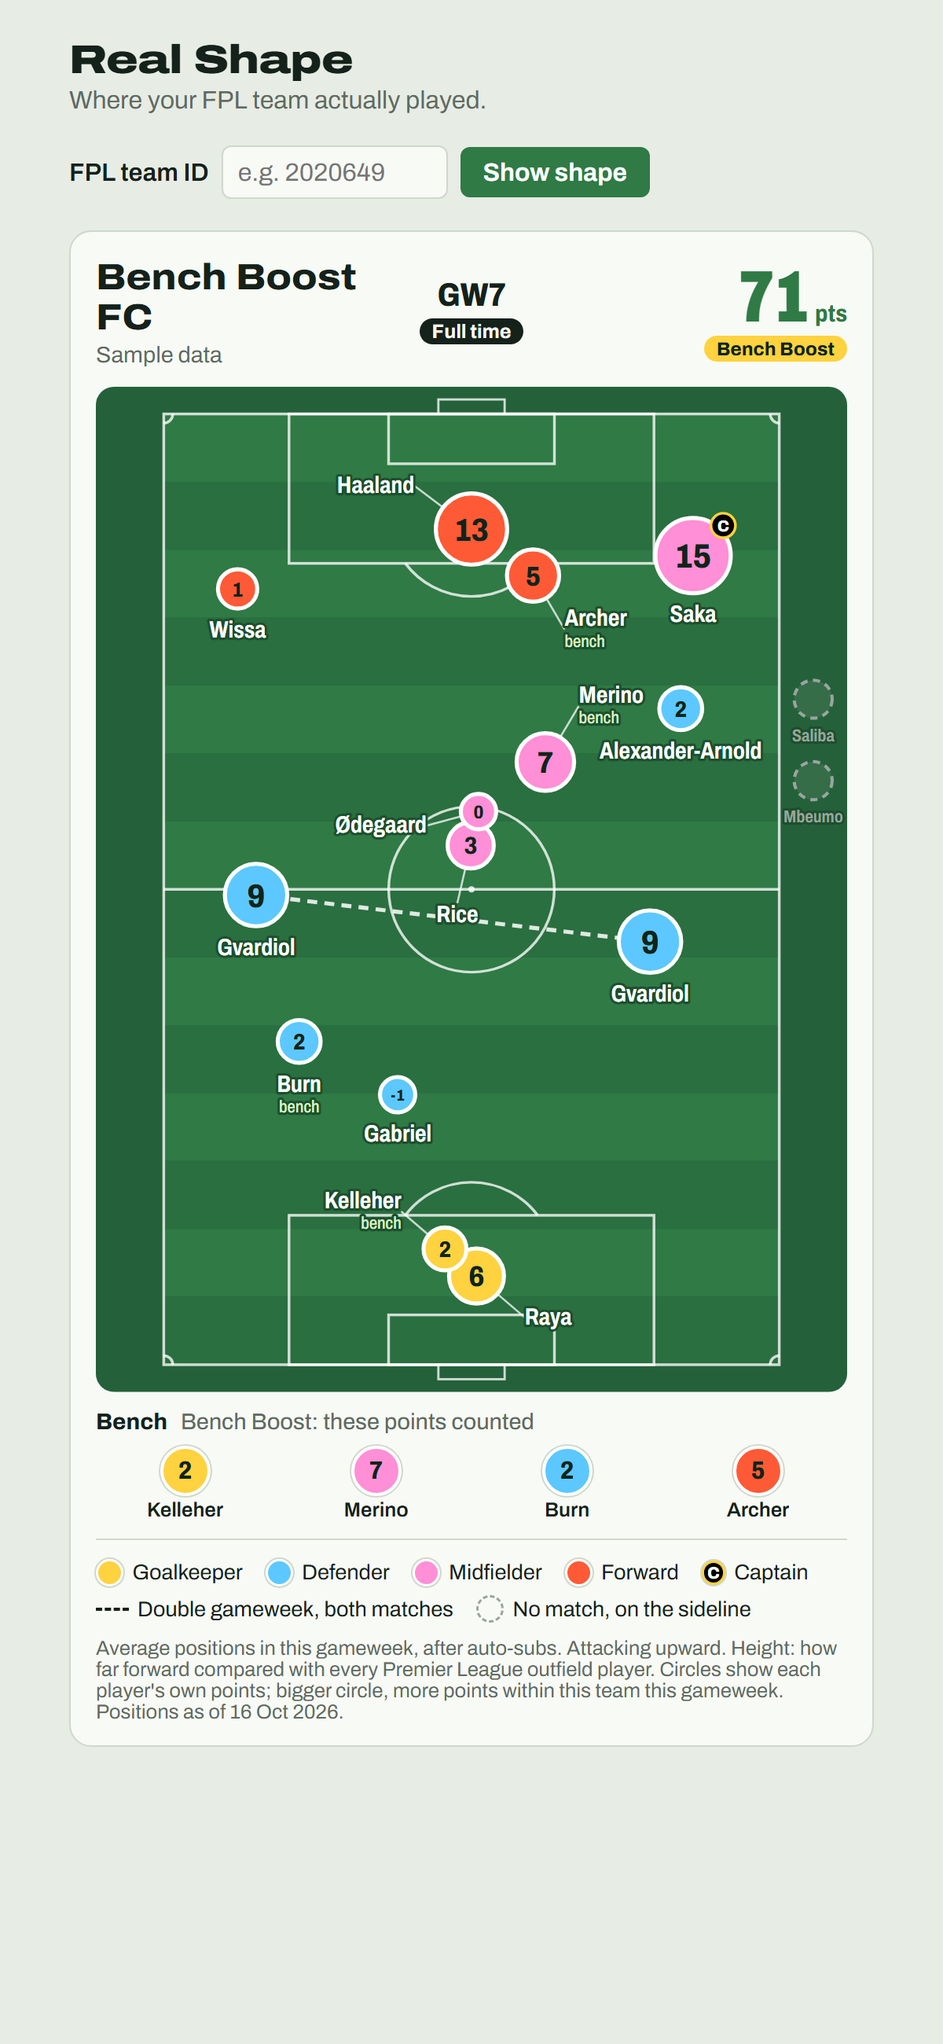
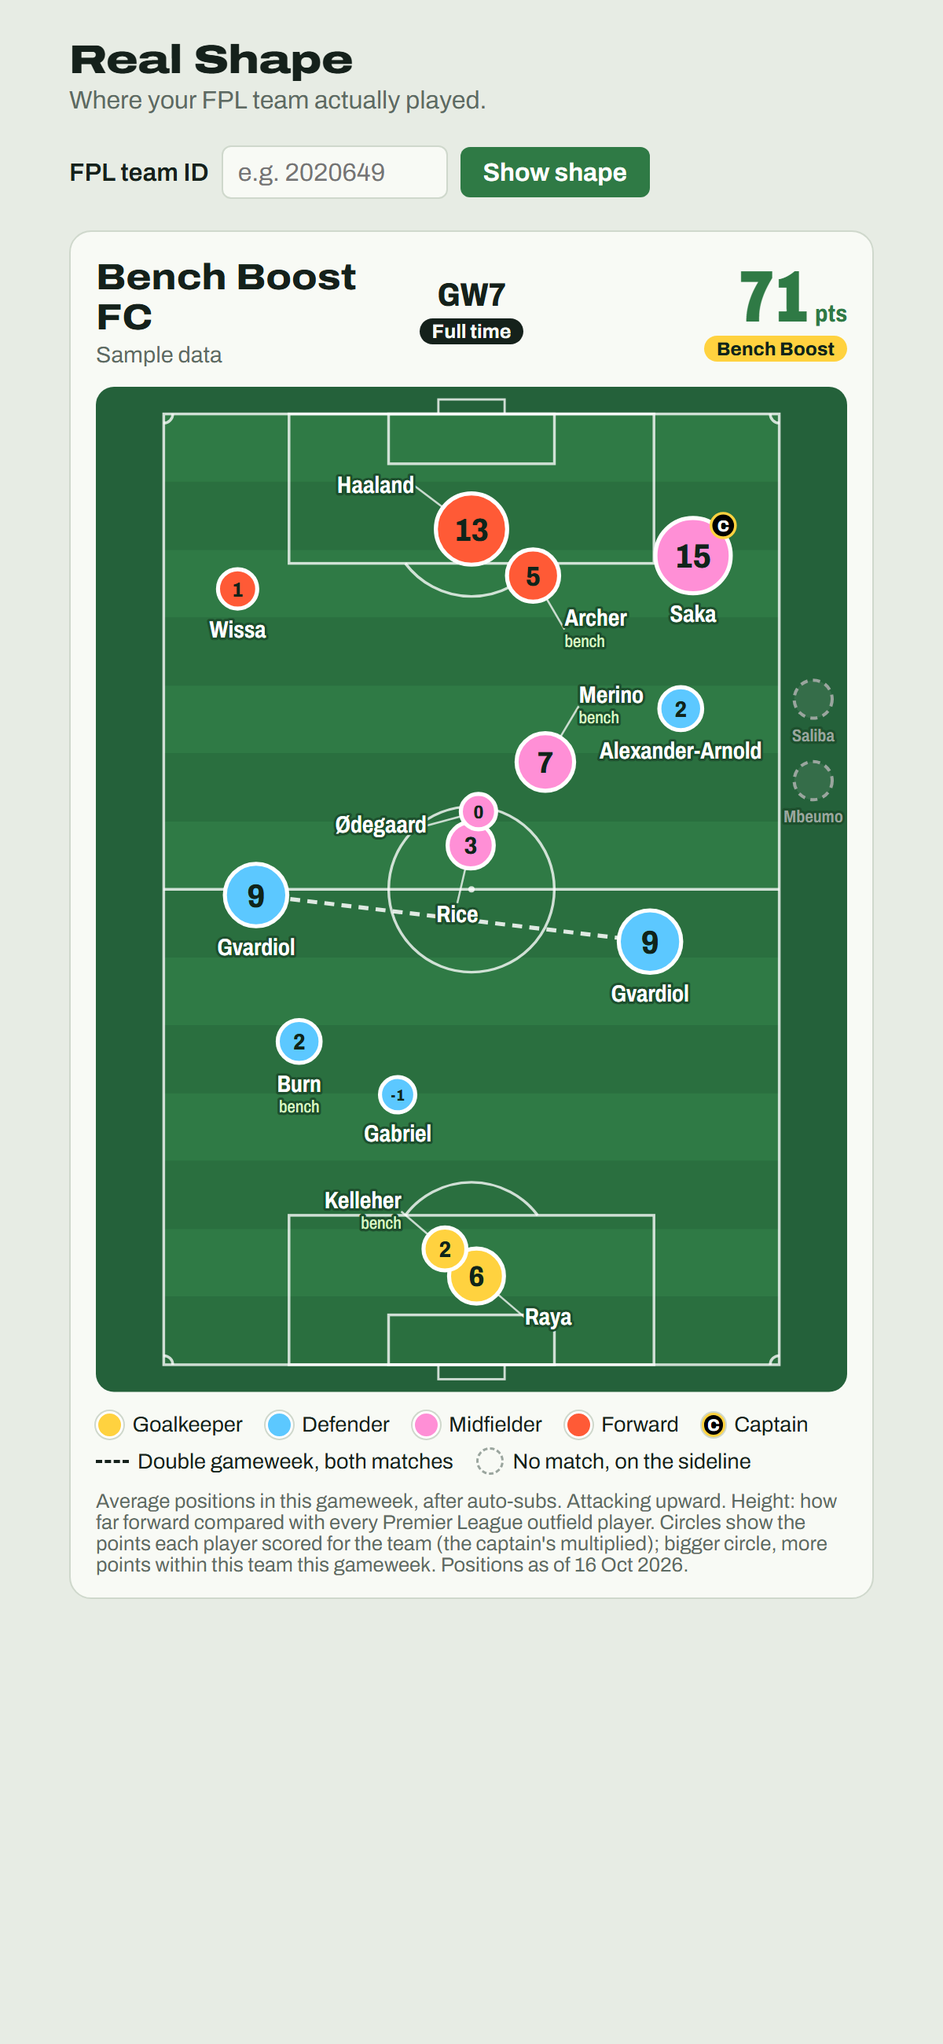
Multiply captain points on the dot, no bench row under Bench Boost, plain Bench heading (task 13 feedback)

Changed region(s): [[0.0925, 0.6854, 0.8633, 0.8412]]

diff --git a/frontend/src/PitchCard.tsx b/frontend/src/PitchCard.tsx
@@ -54,12 +54,11 @@ function GwArrow({ direction, nav }: { direction: 'prev' | 'next'; nav: GwNav })
   )
 }
 
-function Bench({ players, boosted }: { players: BenchPlayer[]; boosted: boolean }) {
+// Empty under Bench Boost (everyone is on the pitch), so not shown then.
+function Bench({ players }: { players: BenchPlayer[] }) {
   return (
     <section className="bench" aria-label="Bench">
-      <h3>
-        Bench <span>{boosted ? 'Bench Boost: these points counted' : 'points did not count'}</span>
-      </h3>
+      <h3>Bench</h3>
       <ol>
         {players.map((p) => (
           <li key={p.fpl_id} title={`${p.name} (${p.role}, ${p.club})`}>
@@ -108,7 +107,7 @@ export default function PitchCard({ plot, nav }: { plot: Plot; nav?: GwNav }) {
         title={`${plot.team_name}, gameweek ${plot.gw}: real average positions`}
       />
 
-      {plot.bench.length > 0 && <Bench players={plot.bench} boosted={plot.chip === 'bboost'} />}
+      {plot.bench.length > 0 && <Bench players={plot.bench} />}
 
       <footer className="card-foot">
         <ul className="legend">
@@ -146,8 +145,8 @@ export default function PitchCard({ plot, nav }: { plot: Plot; nav?: GwNav }) {
         </ul>
         <p className="card-note">
           {state.note} Attacking upward. Height: how far forward compared with every Premier League outfield
-          player. Circles show each player's own points; bigger circle, more points within this team this
-          gameweek.
+          player. Circles show the points each player scored for the team (the captain's multiplied); bigger
+          circle, more points within this team this gameweek.
           {plot.data_as_of && ` Positions as of ${formatDate(plot.data_as_of)}.`}
         </p>
       </footer>

diff --git a/frontend/src/fixtures/edgeCases.ts b/frontend/src/fixtures/edgeCases.ts
@@ -78,10 +78,6 @@ export const benchBoost: Plot = {
     dot({ fpl_id: 14, web_name: 'Burn', role: 'DEF', slot: 14, x: 22, y: 35, depth_pct: 20, points: 2, from_bench: true }),
     dot({ fpl_id: 15, web_name: 'Archer', role: 'FWD', slot: 15, x: 60, y: 82, depth_pct: 90, points: 5, from_bench: true }),
   ],
-  bench: [
-    bench({ fpl_id: 12, web_name: 'Kelleher', role: 'GK', points: 2 }),
-    bench({ fpl_id: 13, web_name: 'Merino', role: 'MID', points: 7 }),
-    bench({ fpl_id: 14, web_name: 'Burn', role: 'DEF', points: 2 }),
-    bench({ fpl_id: 15, web_name: 'Archer', role: 'FWD', points: 5 }),
-  ],
+  // Everyone is on the pitch under Bench Boost.
+  bench: [],
 }

diff --git a/frontend/src/api.ts b/frontend/src/api.ts
@@ -89,8 +89,8 @@ export type PlotDot = {
   // Percentile (0-100) of y among every outfield player-match, drawn as the
   // dot's height. null for a goalkeeper or ghost.
   depth_pct: number | null
-  // The player's own FPL points for the gameweek (live while in progress),
-  // before the captain multiplier.
+  // The points the player scored for the team (live while in progress): his
+  // own, doubled for the captain (tripled with Triple Captain).
   points: number
   // A bench player drawn because of Bench Boost.
   from_bench: boolean

diff --git a/frontend/src/index.css b/frontend/src/index.css
@@ -311,12 +311,6 @@ input:focus-visible {
   font-weight: 750;
 }
 
-.bench h3 span {
-  margin-left: 0.35rem;
-  font-weight: 450;
-  color: var(--muted);
-}
-
 .bench ol {
   display: grid;
   grid-template-columns: repeat(4, minmax(0, 1fr));

diff --git a/backend/app/logic/plot.py b/backend/app/logic/plot.py
@@ -13,7 +13,13 @@ from sqlalchemy.orm import Session
 
 from app.fpl.team import TeamGameweek
 from app.logic.depth import POOL_MIN_MINUTES, rank_depth
-from app.logic.gameweek import GameweekState, bench_picks, build_dots, team_state
+from app.logic.gameweek import (
+    GameweekState,
+    bench_picks,
+    build_dots,
+    captain_multiplier,
+    team_state,
+)
 from app.logic.positions import GhostReason
 from app.logic.repository import (
     load_data_as_of,
@@ -54,14 +60,17 @@ class PlotDot(_Model):
     # (`app/logic/depth.py`); the pitch draws it as the dot's height. None for
     # a goalkeeper or a ghost.
     depth_pct: float | None
-    # The player's own FPL points for the gameweek (live while in progress),
-    # before the captain multiplier.
+    # The points the player scored for the team this gameweek (live while in
+    # progress): his own, doubled for the captain (tripled with Triple
+    # Captain). The dots of the XI add up to the gameweek score before hits.
     points: int
     # A bench player drawn because of Bench Boost (slot 12-15).
     from_bench: bool
 
 
 class BenchPlayer(_Model):
+    """Points are his own (they did not count for the team)."""
+
     fpl_id: int
     name: str
     web_name: str
@@ -89,7 +98,8 @@ class Plot(_Model):
     # End of the latest finished sync; None if the database was never synced.
     data_as_of: datetime | None
     dots: list[PlotDot]
-    # In bench order (see `app/logic/gameweek.py`).
+    # In bench order (see `app/logic/gameweek.py`); empty under Bench Boost,
+    # when the bench is drawn on the pitch.
     bench: list[BenchPlayer]
 
 
@@ -118,6 +128,7 @@ def build_plot(team: TeamGameweek, session: Session, latest_gw: int | None) -> P
     picks = {p.player.id: p for p in team.picks}
     players = {fpl_id: p.player for fpl_id, p in picks.items()}
     pool = load_depth_pool(session, POOL_MIN_MINUTES)
+    multiplier = captain_multiplier(team)
 
     dots = []
     for dot in build_dots(team, state, sofascore_ids, rows):
@@ -140,7 +151,7 @@ def build_plot(team: TeamGameweek, session: Session, latest_gw: int | None) -> P
                 link_group=dot.link_group,
                 replaces=dot.replaces,
                 depth_pct=rank_depth(pool, dot.role, y),
-                points=picks[dot.fpl_id].points,
+                points=picks[dot.fpl_id].points * (multiplier if dot.is_captain else 1),
                 from_bench=dot.slot > 11,
             )
         )

diff --git a/backend/app/logic/gameweek.py b/backend/app/logic/gameweek.py
@@ -31,7 +31,7 @@ Bench
 -----
 Bench players are not dots, except under Bench Boost: all 15 score, so the
 four bench players are drawn too, with slots 12-15 (FPL makes no auto-subs
-under Bench Boost). The plot lists the bench separately either way.
+under Bench Boost), and there is no separate bench.
 """
 
 from collections.abc import Mapping, Sequence
@@ -119,6 +119,11 @@ def team_state(team: TeamGameweek, positions_synced: bool) -> GameweekState:
 
 
 BENCH_BOOST = "bboost"
+TRIPLE_CAPTAIN = "3xc"
+
+
+def captain_multiplier(team: TeamGameweek) -> int:
+    return 3 if team.chip == TRIPLE_CAPTAIN else 2
 
 
 def plotted_picks(team: TeamGameweek, state: GameweekState) -> list[tuple[int, TeamPick]]:
@@ -143,8 +148,11 @@ def plotted_picks(team: TeamGameweek, state: GameweekState) -> list[tuple[int, T
 
 def bench_picks(team: TeamGameweek, state: GameweekState) -> list[TeamPick]:
     """The four bench players in bench order: after FPL's auto-subs when
-    locked (a starter who did not play is among them), as picked in preview."""
-    if state is GameweekState.LOCKED or team.chip == BENCH_BOOST:
+    locked (a starter who did not play is among them), as picked in preview.
+    None under Bench Boost: they are all on the pitch."""
+    if team.chip == BENCH_BOOST:
+        return []
+    if state is GameweekState.LOCKED:
         return [p for p in team.picks if not p.starter]
     # Preview: a bench player FPL subbed in sat where the starter he replaced
     # now sits.

diff --git a/backend/tests/test_plot.py b/backend/tests/test_plot.py
@@ -148,6 +148,22 @@ def test_locked_gameweek(api):
     assert keeper["depth_pct"] is None
 
 
+@pytest.mark.parametrize(("chip", "multiplier"), [(None, 2), ("3xc", 3)])
+def test_captain_dot_carries_multiplied_points(fake, db, chip, multiplier):
+    picks = load("picks-gw6.json")
+    picks["active_chip"] = chip
+    fake.routes["/api/entry/1234/event/6/picks/"] = picks
+    captain_id = next(p["element"] for p in picks["picks"] if p["is_captain"])
+    live = load("live-gw6.json")
+    live["elements"].append({"id": captain_id, "stats": {**live["elements"][0]["stats"], "total_points": 5}})
+    fake.routes["/api/event/6/live/"] = live
+
+    body = client_for(make_service(fake), db).get("/api/team/1234/plot/6").json()
+    captain = next(d for d in body["dots"] if d["is_captain"])
+    assert captain["points"] == 5 * multiplier
+    assert body["chip"] == chip
+
+
 def test_preview_when_not_synced(api, db):
     db.get(Gameweek, 6).positions_synced = False
     db.commit()

diff --git a/backend/tests/test_logic_gameweek.py b/backend/tests/test_logic_gameweek.py
@@ -281,6 +281,11 @@ def test_bench_boost_plots_all_fifteen():
         assert [(d.fpl_id, d.slot) for d in dots] == [(i, i) for i in range(1, 16)]
 
 
+def test_no_bench_under_bench_boost():
+    for state in GameweekState:
+        assert bench_picks(make_team(chip="bboost"), state) == []
+
+
 def test_bench_order():
     # Locked: after FPL's auto-subs, so starter 5 (did not play) is on the
     # bench where 13 sat; preview: the bench as picked.

diff --git a/README.md b/README.md
@@ -35,7 +35,7 @@ FPL shows a team as a tidy formation, but managers pick attacking "defenders" an
 
 - **Task 12 — Gameweek plot API endpoint** (done 2026-10-17): `GET /api/team/{team_id}/plot/{gw}` and `/plot/latest` return the graphic's JSON: team name, gameweek, `state` (preview / locked), `prev_gw` / `next_gw`, `data_as_of` (latest finished sync) and the dots (name, web name, role, club, slot, x / y rounded to 2 decimals, captain, ghost and reason, `from_gw`, `link_group`, `replaces`). `backend/app/logic/plot.py` joins task 11's dots with player details. `prev_gw` stops at the team's first gameweek, `next_gw` at the newest passed deadline. `latest` falls back one gameweek while FPL is not serving fresh picks yet. The web app never loads the Sofascore adapter (checked by a test and in the server log). Owner's team GW1-6 checked live, all locked, 11 dots, no ghosts. Docs and samples: `docs/api.md`. 215 tests pass.
 
-- **Task 13 — Pitch rendering (static, one locked GW)** (awaiting approval, 2026-10-17): React `Pitch` component draws an SVG pitch to scale (68 x 105 m, mown stripes, full markings) with the team attacking upward, from `GET /api/team/{id}/plot/{gw}`. Dots colored by FPL role with the role letter inside, a legend, short-name labels placed to avoid collisions, a black "C" captain badge, a "from GWx" / "auto-sub" second line, dashed lines joining double-gameweek dots, and greyed ghosts on the sideline. Players in the same spot are nudged apart by at most about 2 m. Crowded dots get callout labels on leader lines so each name clearly belongs to one dot. `PitchCard` adds the team name, GW number, the gameweek score (and any transfer hit, now in the plot API as `points` / `transfers_cost`), a Full time / Preview badge and the data date. Average positions bunch up in midfield, so the dot's height is a league rank: the percentile of its depth among every outfield player-match, computed in the backend (`app/logic/depth.py`, `depth_pct` on each dot). "< GW6 >" arrows centred in the card header between team name and points (and the arrow keys; pulled forward from task 14) step through every gameweek the team has played. Each circle shows the player's own gameweek points and is sized between the team's lowest and highest score; the chip played is shown under the score (gold "TC" tag for Triple Captain); a bench row sits under the pitch, and under Bench Boost the bench is plotted too (`chip`, `bench`, `points` in the plot API; spec updated with these decisions). Self-hosted Archivo font (ready for image export), fits a 360 px phone. The interim list view is removed. Dev-only samples at `?fixture=edges` and `?fixture=bboost`. Screenshots: `docs/screenshots/pitch-v1.png` (+ `-phone`, `-edge-cases`).
+- **Task 13 — Pitch rendering (static, one locked GW)** (awaiting approval, 2026-10-17): React `Pitch` component draws an SVG pitch to scale (68 x 105 m, mown stripes, full markings) with the team attacking upward, from `GET /api/team/{id}/plot/{gw}`. Dots colored by FPL role with the role letter inside, a legend, short-name labels placed to avoid collisions, a black "C" captain badge, a "from GWx" / "auto-sub" second line, dashed lines joining double-gameweek dots, and greyed ghosts on the sideline. Players in the same spot are nudged apart by at most about 2 m. Crowded dots get callout labels on leader lines so each name clearly belongs to one dot. `PitchCard` adds the team name, GW number, the gameweek score (and any transfer hit, now in the plot API as `points` / `transfers_cost`), a Full time / Preview badge and the data date. Average positions bunch up in midfield, so the dot's height is a league rank: the percentile of its depth among every outfield player-match, computed in the backend (`app/logic/depth.py`, `depth_pct` on each dot). "< GW6 >" arrows centred in the card header between team name and points (and the arrow keys; pulled forward from task 14) step through every gameweek the team has played. Each circle shows the points the player scored for the team (captain multiplied, so the circles add up to the score) and is sized between the team's lowest and highest; the chip played is shown under the score (gold "TC" tag for Triple Captain); a bench row sits under the pitch, and under Bench Boost all 15 are on the pitch instead (`chip`, `bench`, `points` in the plot API; spec updated with these decisions). Self-hosted Archivo font (ready for image export), fits a 360 px phone. The interim list view is removed. Dev-only samples at `?fixture=edges` and `?fixture=bboost`. Screenshots: `docs/screenshots/pitch-v1.png` (+ `-phone`, `-edge-cases`).
 
 ## Next task
 Waiting for owner approval on task 13 (`tasks/13-pitch-rendering.md`). Then **Task 14 — Gameweek mode UI + navigation** → `tasks/14-gameweek-mode-ui.md`

diff --git a/tasks/13-pitch-rendering.md b/tasks/13-pitch-rendering.md
@@ -37,6 +37,7 @@ A good-looking pitch graphic for one locked gameweek, drawn from the plot API.
 - **Iteration 9 (owner request, 2026-10-17):** the card header is one row: team name (left) | "< GW6 >" with the Full time / Preview badge under GW6 (centred on the card) | points (right). On phones (< 30rem): team name and points on the first line, "< GW6 >" centred below. The pitch-side arrows and the "Gameweek N" row are gone; the arrows carry `data-export-ignore` for task 15. Re-verified clicking GW6 -> GW1 -> GW2, the arrow keys, and no sideways scroll at 360 px.
 - **Iteration 10 (owner decision, 2026-10-17):** "Same position" view removed; the pitch always ranks depth against every outfield player, so the view buttons are gone too. The API sends one `depth_pct` per dot (was `depth_pct_all` / `depth_pct_role`); `app/logic/depth.py` keeps a single outfield pool. 219 backend tests pass; click-through GW6 -> GW1 -> GW2 re-checked. `pitch-v1-same-position.png` removed.
 - **Iteration 11 (owner decisions, 2026-10-17):** points and chips. Each circle shows the player's own gameweek points (from `event/{gw}/live`; captain not doubled) and its area scales between the team's lowest and highest score that gameweek (0 and below = smallest; all equal = middle size); the role letter is gone (colour + legend). Biggest circles are drawn first so small ones stay visible. The chip played shows under the score; Triple Captain gets a gold "TC" tag. A bench row (4 players, points, "did not play" for a starter auto-subbed off) sits under the pitch; under Bench Boost the bench is also plotted ("bench" label). API: `chip`, `bench`, and `points` / `from_bench` per dot; `TeamPick.points`. Spec updated (`Project-Description.md`, decisions 2026-10-17). Owner's GW3 (Triple Captain on Haaland) checked: XI own points 39 + 2 x 9 = 57 = FPL total. Dev samples: `?fixture=edges` (Triple Captain), `?fixture=bboost`. 221 backend tests pass.
+- **Iteration 12 (owner, 2026-10-17):** the captain's circle shows his multiplied points (x2, x3 with Triple Captain) and is sized by them; under Bench Boost all 15 are on the pitch and the bench row is gone; the bench heading is just "Bench". Checked on GW1-6 for team 2020649: the dots add up exactly to the FPL gameweek score every time (GW3: Haaland TC 27). 224 backend tests pass (new: captain x2 / x3, no bench under Bench Boost).
 - **Overlapping players:** dots closer than 1.7 dot radii are pushed apart, at most 0.9 radius (about 2.3 m, under 2.5% of the pitch), so two players in the same spot both show (GW6: Hall and De Cuyper are 1.4 units apart). Labels try 8 spots around each dot and take the first with no collision, else the least overlap.
 - **Screenshots:** `docs/screenshots/pitch-v1.png` (owner's team 2020649, GW6 locked, 600 px wide), `pitch-v1-phone.png` (same at 360 px), `pitch-v1-edge-cases.png`. The owner's team has no ghost, double gameweek or "from GW" label yet, so the edge-case shot uses a dev-only sample: `http://localhost:5173/?fixture=edges` (`src/fixtures/edgeCases.ts`, not in the production build).
 - Checked: `npm run build` and `npm run lint` clean; GW1-6 render; headless Chrome screenshots at 600 px and 360 px.

diff --git a/Project-Description.md b/Project-Description.md
@@ -8,9 +8,9 @@
 >
 > **Gameweek graphic decisions (2026-10-17, owner, during task 13), these override the text below:**
 > - **Depth is league-relative.** Real average positions all bunch up between ~30 and ~75 of the pitch, so a dot's height is the percentile of its depth among every Premier League outfield player-match (60+ minutes), defenders, midfielders and forwards together. Left-right stays real. Goalkeepers keep their real position.
-> - **Points on the graphic.** The header shows the team's gameweek score (and any transfer hit). Each circle shows the player's own points for the gameweek (live while it is in progress; the captain's own score, not doubled). Circle **area** scales between the team's lowest and highest score that gameweek, so the best player that week always has the biggest circle; 0 and negative scores all get the smallest size; if everyone scored the same, all circles are the middle size.
+> - **Points on the graphic.** The header shows the team's gameweek score (and any transfer hit). Each circle shows the points the player scored for the team that gameweek (live while it is in progress): his own, with the captain's doubled (tripled with Triple Captain), so the circles add up to the gameweek score before hits. Circle **area** scales between the team's lowest and highest score that gameweek, so the best player that week always has the biggest circle; 0 and negative scores all get the smallest size; if everyone scored the same, all circles are the middle size.
 > - **Chips are shown.** A chip played that gameweek (Bench Boost, Triple Captain, Free Hit, Wildcard, Assistant Manager) is shown next to the score, since it affects it. **Triple Captain** gets its own marker: a gold "TC" tag on the captain instead of the "C".
-> - **The bench is shown in Gameweek mode.** The 4 bench players sit in a row under the pitch with their points, in bench order (after auto-subs when locked, so a starter who did not play is listed there). Under **Bench Boost** all 15 count, so the 4 bench players are also plotted on the pitch, labelled "bench".
+> - **The bench is shown in Gameweek mode.** The 4 bench players sit in a row under the pitch, headed just "Bench", with their points, in bench order (after auto-subs when locked, so a starter who did not play is listed there). Under **Bench Boost** all 15 count, so all 15 are plotted on the pitch (the 4 bench players labelled "bench") and there is no bench row.
 > - **Gameweek navigation** is "< GW6 >" arrows centred in the card header between the team name and the points, plus the left / right arrow keys.
 
 ## What it is

diff --git a/docs/api.md b/docs/api.md
@@ -24,7 +24,7 @@ The web app reads the bundled read-only `fpl.db` and live FPL data. It never cal
 | `prev_gw` / `next_gw` | The neighbouring gameweek to step to, or `null` at an edge. `prev_gw` stops at the team's first gameweek (and GW1). `next_gw` stops at the newest gameweek whose deadline has passed (so also at GW38). |
 | `data_as_of` | End of the latest finished offline sync (`sync_runs.finished_at`, UTC, no offset), or `null` if never synced. |
 | `dots` | One per XI player in slot order (slots 12-15 for the bench under Bench Boost). A double-gameweek player on opposite flanks has two. |
-| `bench` | The 4 bench players in bench order: `fpl_id`, `name`, `web_name`, `role`, `club`, `points`, `subbed_off` (locked only: a picked starter FPL auto-subbed off). After auto-subs when locked, as picked in preview. Listed under Bench Boost too. |
+| `bench` | The 4 bench players in bench order: `fpl_id`, `name`, `web_name`, `role`, `club`, `points` (their own), `subbed_off` (locked only: a picked starter FPL auto-subbed off). After auto-subs when locked, as picked in preview. Empty under Bench Boost (they are dots). |
 
 Each dot:
 
@@ -41,7 +41,7 @@ Each dot:
 | `from_gw` | "from GWx" label when the position comes from an older gameweek (preview only), otherwise `null`. |
 | `link_group` | Same value (the FPL ID) on the two linked dots of a double gameweek, otherwise `null`. |
 | `replaces` | Locked only: FPL ID of the picked starter this auto-sub replaced. |
-| `points` | The player's own FPL points for the gameweek (`event/{gw}/live`, live while in progress), before the captain multiplier. |
+| `points` | The points the player scored for the team (`event/{gw}/live`, live while in progress): his own, doubled for the captain, tripled with Triple Captain. The dots add up to the gameweek score before hits. |
 | `from_bench` | A bench player drawn because of Bench Boost. |
 | `depth_pct` | How far forward the dot is: percentile (0-100, 1 decimal, ties count half) of `y` among every outfield player-match in the database (defenders, midfielders and forwards together; a player-match counts at 60+ minutes). `null` for a goalkeeper or a ghost. The pitch draws it as the dot's height (`app/logic/depth.py`). |
 
